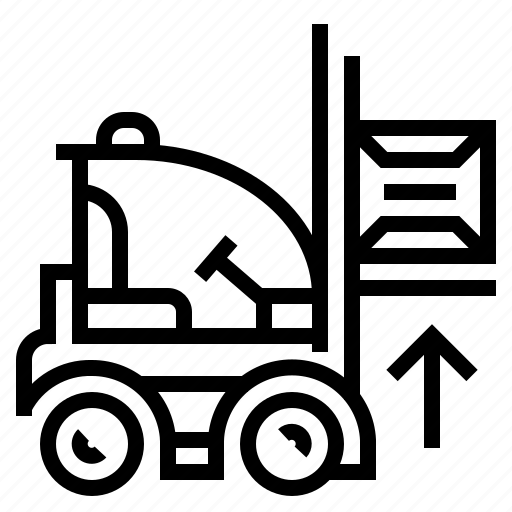
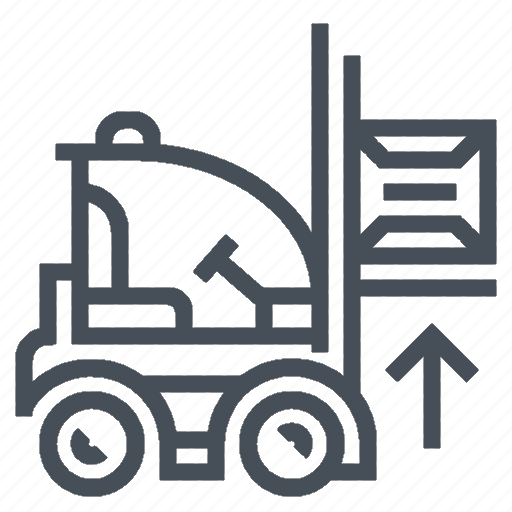
uprava ikon warehouse move a order v bocnom paneli a v kartach na black a gray

diff --git a/client/src/icons.css b/client/src/icons.css
@@ -250,13 +250,13 @@
 }
 
 .warehouse-move-icon {
-  content: url("./images/warehouse-move.png");
+  content: url("./images/warehouse-move_black.png");
   height: 44px;
   width: 44px;
 }
 
 .order-icon {
-  content: url("./images/order.png");
+  content: url("./images/order_black.png");
   height: 44px;
   width: 44px;
 }
